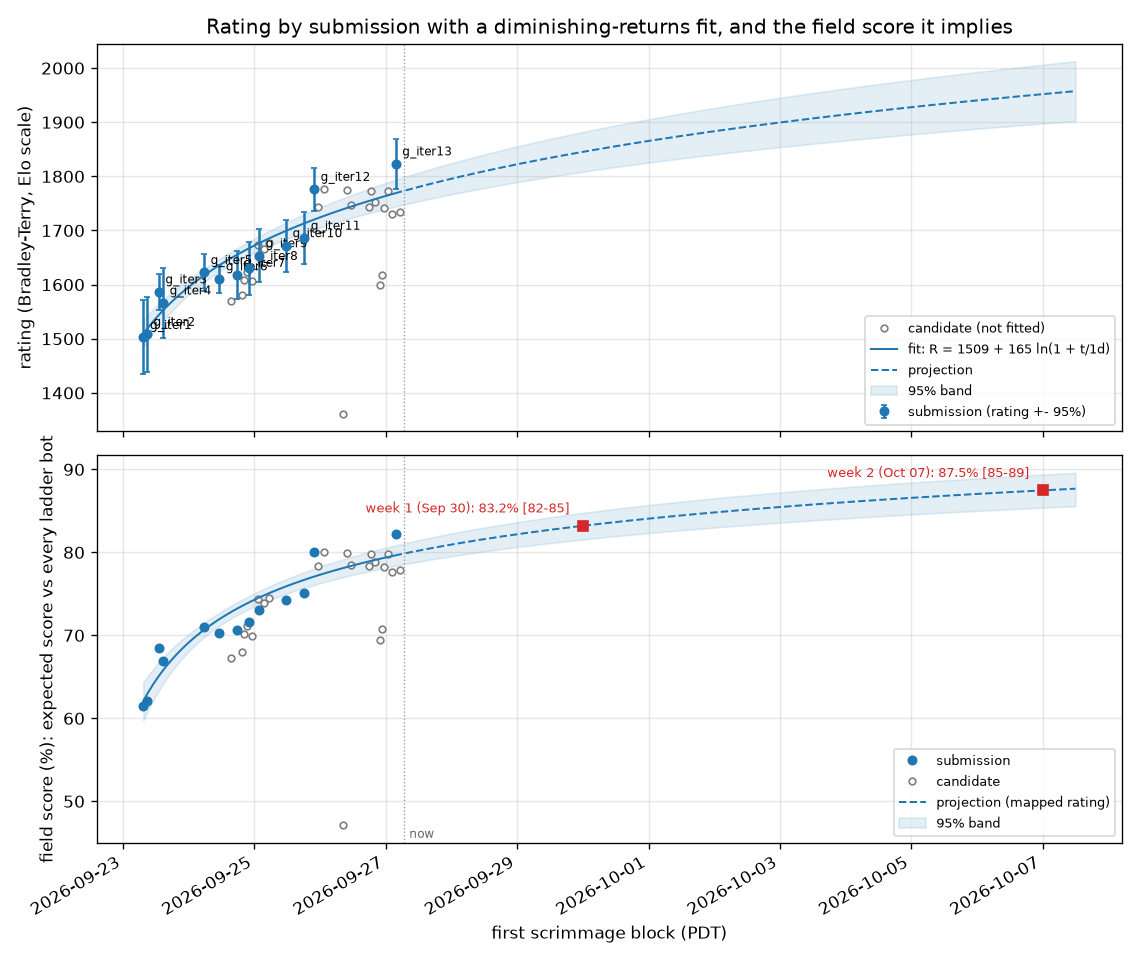
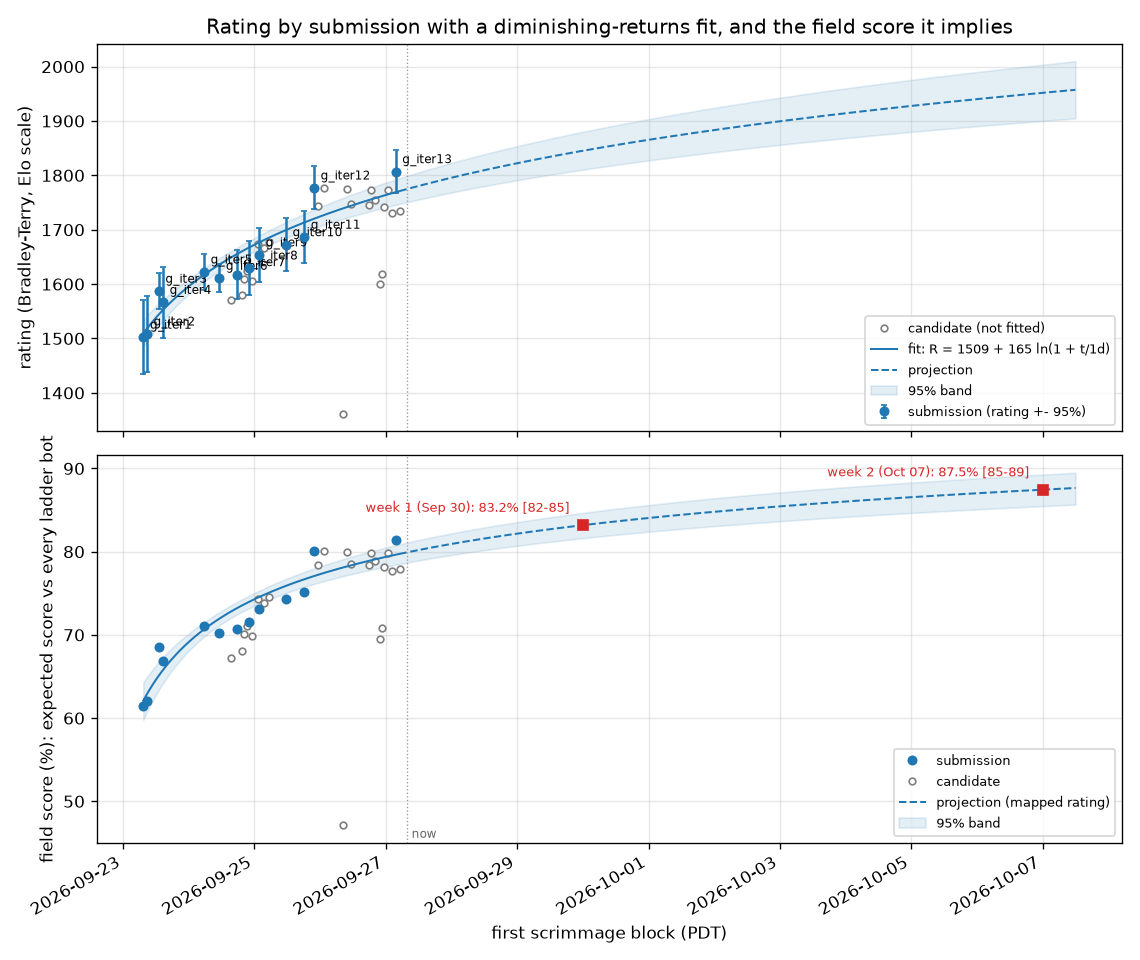
g_iter13 at 336 games: 1807 +- 39 (+30 over g_iter12); chart refreshed
Claude-Session: https://claude.ai/code/session_015tNyF5ucwWW1mudpEQTT25

diff --git a/progress/ELO.md b/progress/ELO.md
@@ -1,35 +1,35 @@
 # Ladder
 
-8440 scrimmages (ours only), 7916 distinct (a repeated pairing with the same seed replays the same game and counts once), rated by a batch Bradley-Terry fit on the Elo scale (`tools/elolib.py`); each of our builds is its own player. 65 of 65 ladder bots met.
+8536 scrimmages (ours only), 8012 distinct (a repeated pairing with the same seed replays the same game and counts once), rated by a batch Bradley-Terry fit on the Elo scale (`tools/elolib.py`); each of our builds is its own player. 65 of 65 ladder bots met.
 
 Our builds (rating +- 95%; field score = expected score against every ladder bot, one game each):
 
 | build | rating | rank | games | record | field score |
 |---|---|---|---|---|---|
-| g_iter13 | 1823 +- 46 | 12 of 101 | 240 | 134-106 | 82.2% |
-| cand69 | 1776 +- 74 | 14 of 101 | 96 | 46-50 | 80.0% |
-| g_iter12 | 1776 +- 40 | 15 of 101 | 336 | 159-177 | 80.0% |
-| cand81 | 1774 +- 91 | 16 of 101 | 95 | 67-28 | 79.9% |
-| cand86s3 | 1773 +- 46 | 17 of 101 | 240 | 118-122 | 79.8% |
-| r1s13 | 1773 +- 46 | 18 of 101 | 240 | 118-122 | 79.8% |
-| cand87 | 1753 +- 46 | 19 of 101 | 240 | 112-128 | 78.9% |
-| cand81s8 | 1747 +- 48 | 20 of 101 | 240 | 85-155 | 78.5% |
-| cand86s2 | 1744 +- 73 | 21 of 101 | 96 | 44-52 | 78.4% |
+| g_iter13 | 1807 +- 39 | 12 of 101 | 336 | 174-162 | 81.5% |
+| cand69 | 1777 +- 74 | 14 of 101 | 96 | 46-50 | 80.0% |
+| g_iter12 | 1777 +- 40 | 15 of 101 | 336 | 159-177 | 80.0% |
+| cand81 | 1775 +- 91 | 16 of 101 | 95 | 67-28 | 79.9% |
+| r1s13 | 1773 +- 46 | 17 of 101 | 240 | 118-122 | 79.8% |
+| cand86s3 | 1773 +- 46 | 18 of 101 | 240 | 118-122 | 79.8% |
+| cand87 | 1754 +- 46 | 19 of 101 | 240 | 112-128 | 78.9% |
+| cand81s8 | 1748 +- 48 | 20 of 101 | 240 | 85-155 | 78.6% |
+| cand86s2 | 1745 +- 73 | 21 of 101 | 96 | 44-52 | 78.4% |
 | cand65 | 1744 +- 74 | 22 of 101 | 96 | 42-54 | 78.4% |
 | r1s11 | 1741 +- 46 | 23 of 101 | 240 | 108-132 | 78.2% |
-| r1s16 | 1734 +- 49 | 24 of 101 | 240 | 79-161 | 77.9% |
-| r1s14 | 1731 +- 46 | 25 of 101 | 240 | 105-135 | 77.7% |
+| r1s16 | 1735 +- 49 | 24 of 101 | 240 | 79-161 | 77.9% |
+| r1s14 | 1732 +- 46 | 25 of 101 | 240 | 105-135 | 77.7% |
 | g_iter11 | 1686 +- 48 | 26 of 101 | 240 | 107-133 | 75.1% |
-| cand49b | 1677 +- 75 | 27 of 101 | 96 | 42-54 | 74.6% |
-| cand43b | 1673 +- 79 | 28 of 101 | 96 | 64-32 | 74.4% |
-| g_iter10 | 1672 +- 48 | 29 of 101 | 240 | 103-137 | 74.3% |
-| cand47d | 1665 +- 54 | 31 of 101 | 192 | 73-119 | 73.9% |
-| g_iter9 | 1653 +- 49 | 33 of 101 | 240 | 78-162 | 73.1% |
-| g_iter8 | 1630 +- 49 | 34 of 101 | 240 | 108-132 | 71.6% |
-| cand41b | 1624 +- 76 | 36 of 101 | 96 | 51-45 | 71.2% |
+| cand49b | 1677 +- 76 | 27 of 101 | 96 | 42-54 | 74.6% |
+| cand43b | 1673 +- 79 | 28 of 101 | 96 | 64-32 | 74.3% |
+| g_iter10 | 1673 +- 48 | 29 of 101 | 240 | 103-137 | 74.3% |
+| cand47d | 1666 +- 54 | 30 of 101 | 192 | 73-119 | 73.9% |
+| g_iter9 | 1654 +- 50 | 33 of 101 | 240 | 78-162 | 73.1% |
+| g_iter8 | 1630 +- 49 | 34 of 101 | 240 | 108-132 | 71.5% |
+| cand41b | 1624 +- 76 | 36 of 101 | 96 | 51-45 | 71.1% |
 | g_iter5 | 1622 +- 34 | 37 of 101 | 618 | 329-289 | 71.0% |
 | r1s8 | 1619 +- 78 | 38 of 101 | 96 | 29-67 | 70.8% |
-| g_iter7 | 1617 +- 45 | 39 of 101 | 288 | 135-153 | 70.7% |
+| g_iter7 | 1618 +- 45 | 39 of 101 | 288 | 135-153 | 70.7% |
 | g_iter6 | 1611 +- 26 | 40 of 101 | 886 | 450-436 | 70.2% |
 | cand40c | 1609 +- 77 | 41 of 101 | 96 | 57-39 | 70.1% |
 | cand42c | 1607 +- 76 | 42 of 101 | 96 | 49-47 | 69.9% |
@@ -38,52 +38,52 @@ Our builds (rating +- 95%; field score = expected score against every ladder bot
 | g_iter3 | 1587 +- 33 | 45 of 101 | 796 | 167-629 | 68.5% |
 | cand37 | 1581 +- 76 | 46 of 101 | 96 | 46-50 | 68.0% |
 | cand31 | 1570 +- 75 | 47 of 101 | 96 | 52-44 | 67.2% |
-| g_iter4 | 1566 +- 65 | 48 of 101 | 217 | 43-174 | 66.9% |
-| g_iter2 | 1508 +- 70 | 49 of 101 | 192 | 44-148 | 62.0% |
+| g_iter4 | 1567 +- 65 | 48 of 101 | 217 | 43-174 | 66.9% |
+| g_iter2 | 1509 +- 70 | 49 of 101 | 192 | 44-148 | 62.0% |
 | g_iter1 | 1503 +- 69 | 50 of 101 | 170 | 95-75 | 61.5% |
 | arch_enclosure | 1362 +- 165 | 54 of 101 | 48 | 4-44 | 47.1% |
 
 | rank | player | rating | +- 95% | games | W-L |
 |---|---|---|---|---|---|
 | 1 | awesomelemonade.citricsky | 2191 | 200 | 103 | 101-2 |
-| 2 | uvafan.v14_final_bot | 2181 | 200 | 98 | 96-2 |
+| 2 | uvafan.v14_final_bot | 2182 | 200 | 98 | 96-2 |
 | 3 | AngusRitossa.newbot | 2122 | 174 | 95 | 92-3 |
-| 4 | StoneT2000.FinalChowBotStable | 2065 | 181 | 39 | 36-3 |
+| 4 | StoneT2000.FinalChowBotStable | 2066 | 181 | 39 | 36-3 |
 | 5 | ronniesong0809.finalbota | 2007 | 98 | 127 | 114-13 |
 | 6 | battlecode20-team4.finalbota | 1999 | 63 | 286 | 254-32 |
-| 7 | IvanGeffner.finalbota | 1997 | 76 | 185 | 162-23 |
-| 8 | mvpatel2000.qual | 1907 | 33 | 619 | 473-146 |
-| 9 | winkelmantanner.tannerplayer | 1906 | 32 | 632 | 483-149 |
-| 10 | rzhan11.quals_bot | 1851 | 39 | 362 | 250-112 |
-| 11 | EmaPajic.Qualifications | 1845 | 29 | 682 | 481-201 |
-| 12 | **us:g_iter13** | 1823 | 46 | 240 | 134-106 |
-| 13 | poortho.stable_seeding_bot | 1783 | 25 | 851 | 551-300 |
-| 14 | **us:cand69** | 1776 | 74 | 96 | 46-50 |
-| 15 | **us:g_iter12** | 1776 | 40 | 336 | 159-177 |
-| 16 | **us:cand81** | 1774 | 91 | 95 | 67-28 |
-| 17 | **us:cand86s3** | 1773 | 46 | 240 | 118-122 |
-| 18 | **us:r1s13** | 1773 | 46 | 240 | 118-122 |
-| 19 | **us:cand87** | 1753 | 46 | 240 | 112-128 |
-| 20 | **us:cand81s8** | 1747 | 48 | 240 | 85-155 |
-| 21 | **us:cand86s2** | 1744 | 73 | 96 | 44-52 |
+| 7 | IvanGeffner.finalbota | 1997 | 72 | 197 | 171-26 |
+| 8 | mvpatel2000.qual | 1910 | 32 | 631 | 483-148 |
+| 9 | winkelmantanner.tannerplayer | 1910 | 32 | 644 | 494-150 |
+| 10 | rzhan11.quals_bot | 1851 | 39 | 374 | 257-117 |
+| 11 | EmaPajic.Qualifications | 1844 | 29 | 694 | 487-207 |
+| 12 | **us:g_iter13** | 1807 | 39 | 336 | 174-162 |
+| 13 | poortho.stable_seeding_bot | 1784 | 25 | 863 | 558-305 |
+| 14 | **us:cand69** | 1777 | 74 | 96 | 46-50 |
+| 15 | **us:g_iter12** | 1777 | 40 | 336 | 159-177 |
+| 16 | **us:cand81** | 1775 | 91 | 95 | 67-28 |
+| 17 | **us:r1s13** | 1773 | 46 | 240 | 118-122 |
+| 18 | **us:cand86s3** | 1773 | 46 | 240 | 118-122 |
+| 19 | **us:cand87** | 1754 | 46 | 240 | 112-128 |
+| 20 | **us:cand81s8** | 1748 | 48 | 240 | 85-155 |
+| 21 | **us:cand86s2** | 1745 | 73 | 96 | 44-52 |
 | 22 | **us:cand65** | 1744 | 74 | 96 | 42-54 |
 | 23 | **us:r1s11** | 1741 | 46 | 240 | 108-132 |
-| 24 | **us:r1s16** | 1734 | 49 | 240 | 79-161 |
-| 25 | **us:r1s14** | 1731 | 46 | 240 | 105-135 |
+| 24 | **us:r1s16** | 1735 | 49 | 240 | 79-161 |
+| 25 | **us:r1s14** | 1732 | 46 | 240 | 105-135 |
 | 26 | **us:g_iter11** | 1686 | 48 | 240 | 107-133 |
-| 27 | **us:cand49b** | 1677 | 75 | 96 | 42-54 |
+| 27 | **us:cand49b** | 1677 | 76 | 96 | 42-54 |
 | 28 | **us:cand43b** | 1673 | 79 | 96 | 64-32 |
-| 29 | **us:g_iter10** | 1672 | 48 | 240 | 103-137 |
-| 30 | cormackikkert.whyPermutator | 1666 | 24 | 841 | 415-426 |
-| 31 | **us:cand47d** | 1665 | 54 | 192 | 73-119 |
-| 32 | laurenschneider.pdx_team_one | 1658 | 24 | 818 | 398-420 |
-| 33 | **us:g_iter9** | 1653 | 49 | 240 | 78-162 |
+| 29 | **us:g_iter10** | 1673 | 48 | 240 | 103-137 |
+| 30 | **us:cand47d** | 1666 | 54 | 192 | 73-119 |
+| 31 | cormackikkert.whyPermutator | 1664 | 24 | 853 | 417-436 |
+| 32 | laurenschneider.pdx_team_one | 1658 | 24 | 830 | 402-428 |
+| 33 | **us:g_iter9** | 1654 | 50 | 240 | 78-162 |
 | 34 | **us:g_iter8** | 1630 | 49 | 240 | 108-132 |
 | 35 | benzyx.seeding | 1625 | 25 | 814 | 360-454 |
 | 36 | **us:cand41b** | 1624 | 76 | 96 | 51-45 |
 | 37 | **us:g_iter5** | 1622 | 34 | 618 | 329-289 |
 | 38 | **us:r1s8** | 1619 | 78 | 96 | 29-67 |
-| 39 | **us:g_iter7** | 1617 | 45 | 288 | 135-153 |
+| 39 | **us:g_iter7** | 1618 | 45 | 288 | 135-153 |
 | 40 | **us:g_iter6** | 1611 | 26 | 886 | 450-436 |
 | 41 | **us:cand40c** | 1609 | 77 | 96 | 57-39 |
 | 42 | **us:cand42c** | 1607 | 76 | 96 | 49-47 |
@@ -92,8 +92,8 @@ Our builds (rating +- 95%; field score = expected score against every ladder bot
 | 45 | **us:g_iter3** | 1587 | 33 | 796 | 167-629 |
 | 46 | **us:cand37** | 1581 | 76 | 96 | 46-50 |
 | 47 | **us:cand31** | 1570 | 75 | 96 | 52-44 |
-| 48 | **us:g_iter4** | 1566 | 65 | 217 | 43-174 |
-| 49 | **us:g_iter2** | 1508 | 70 | 192 | 44-148 |
+| 48 | **us:g_iter4** | 1567 | 65 | 217 | 43-174 |
+| 49 | **us:g_iter2** | 1509 | 70 | 192 | 44-148 |
 | 50 | **us:g_iter1** | 1503 | 69 | 170 | 95-75 |
 | 51 | wpine215.stardustv2 | 1439 | 36 | 461 | 122-339 |
 | 52 | mhahn2003.nonrush | 1393 | 51 | 256 | 57-199 |

diff --git a/BENCHMARK.md b/BENCHMARK.md
@@ -80,7 +80,7 @@ build with at least 200 recorded games: a candidate's short ladder arm never re-
 | `IvanGeffner.dronecrunchplus` | IvanGeffner_battlecode2020 (bc7dbca) | - | - | untested |  |
 | `IvanGeffner.ecoplayer` | IvanGeffner_battlecode2020 (bc7dbca) | - | - | untested |  |
 | `IvanGeffner.ecoplus` | IvanGeffner_battlecode2020 (bc7dbca) | - | - | untested |  |
-| `IvanGeffner.finalbota` | IvanGeffner_battlecode2020 (bc7dbca) | 10 | 30 | locked | 0 8 12 18 0 0 17 42 0 0 11 10 |
+| `IvanGeffner.finalbota` | IvanGeffner_battlecode2020 (bc7dbca) | 10 | 30 | locked | 0 8 12 18 0 0 17 42 0 0 11 25 10 |
 | `IvanGeffner.finalbotb` | IvanGeffner_battlecode2020 (bc7dbca) | - | - | untested |  |
 | `IvanGeffner.finalbotc` | IvanGeffner_battlecode2020 (bc7dbca) | - | - | untested |  |
 | `IvanGeffner.landscaperop` | IvanGeffner_battlecode2020 (bc7dbca) | - | - | untested |  |
@@ -175,7 +175,7 @@ build with at least 200 recorded games: a candidate's short ladder arm never re-
 | `benzyx.tortuga` | benzyx_bc20-waterloo (05df2e7) | - | - | untested |  |
 | `charboltron.master_player` | charboltron_pdx_battlecode_2020_team_11 (f78f1e3) | - | - | untested |  |
 | `charboltron.team11newbot` | charboltron_pdx_battlecode_2020_team_11 (f78f1e3) | 100 | 2 | peer(>90 once) | 100 100 |
-| `cormackikkert.whyPermutator` | cormackikkert_battlecode2020 (4d230c4) | 67 | 30 | peer | 25 17 38 40 25 42 45 25 28 25 42 33 47 58 42 50 38 75 60 50 71 67 75 17 83 75 50 67 60 50 42 57 80 47 70 67 |
+| `cormackikkert.whyPermutator` | cormackikkert_battlecode2020 (4d230c4) | 67 | 30 | peer | 25 17 38 40 25 42 45 25 28 25 42 33 47 58 42 50 38 75 60 50 71 67 75 17 83 75 50 67 60 50 42 57 80 47 74 67 |
 | `cormackikkert.whyPermutatorOld` | cormackikkert_battlecode2020 (4d230c4) | - | - | untested |  |
 | `cosimogonnelli.Team3player` | cosimogonnelli_CS454-554-SE (d7dc657) | 100 | 2 | peer(>90 once) | 80 100 |
 | `cs454-w20-team3.oldbot` | cs454-w20-team3_team3-bot (502c334) | - | - | untested |  |
@@ -203,7 +203,7 @@ build with at least 200 recorded games: a candidate's short ladder arm never re-
 | `kylittle.deliriumv1` | kylittle_DeliriumBattlecode (17a94dd) | - | - | untested |  |
 | `kylittle.qualsbot` | kylittle_DeliriumBattlecode (17a94dd) | - | - | untested |  |
 | `kylittle.qualsbot2` | kylittle_DeliriumBattlecode (17a94dd) | 100 | 2 | peer(>90 once) | 100 100 |
-| `laurenschneider.pdx_team_one` | laurenschneider_battlecode20-PDXTeamOne (2965376) | 70 | 30 | peer | 0 50 39 14 0 47 38 0 50 50 50 42 47 42 50 47 50 42 50 47 79 50 67 17 83 92 75 70 63 67 25 70 73 67 70 |
+| `laurenschneider.pdx_team_one` | laurenschneider_battlecode20-PDXTeamOne (2965376) | 69 | 42 | peer | 0 50 39 14 0 47 38 0 50 50 50 42 47 42 50 47 50 42 50 47 79 50 67 17 83 92 75 70 63 67 25 70 73 67 69 |
 | `lfchain.bigBudsBot` | lfchain_Battlecode2020 (b026153) | 100 | 2 | peer(>90 once) | 100 100 |
 | `lfchain.fBot` | lfchain_Battlecode2020 (b026153) | - | - | untested |  |
 | `lfchain.jBot` | lfchain_Battlecode2020 (b026153) | - | - | untested |  |
@@ -246,7 +246,7 @@ build with at least 200 recorded games: a candidate's short ladder arm never re-
 | `mvpatel2000.oldhades` | mvpatel2000_Battlecode2020 (554943e) | - | - | untested |  |
 | `mvpatel2000.poseidon` | mvpatel2000_Battlecode2020 (554943e) | - | - | untested |  |
 | `mvpatel2000.quail` | mvpatel2000_Battlecode2020 (554943e) | - | - | untested |  |
-| `mvpatel2000.qual` | mvpatel2000_Battlecode2020 (554943e) | 20 | 30 | target | 0 8 24 13 67 12 0 12 20 46 8 23 30 26 42 33 0 17 23 17 33 27 17 17 23 37 17 33 20 |
+| `mvpatel2000.qual` | mvpatel2000_Battlecode2020 (554943e) | 20 | 30 | target | 0 8 24 13 67 12 0 12 20 46 8 23 30 26 42 33 0 17 23 17 33 27 17 17 23 37 17 29 20 |
 | `mvpatel2000.qualAttacc` | mvpatel2000_Battlecode2020 (554943e) | - | - | untested |  |
 | `mvpatel2000.qualNoAtacc` | mvpatel2000_Battlecode2020 (554943e) | - | - | untested |  |
 | `mvpatel2000.seeding` | mvpatel2000_Battlecode2020 (554943e) | - | - | untested |  |
@@ -280,7 +280,7 @@ build with at least 200 recorded games: a candidate's short ladder arm never re-
 | `poortho.rush` | poortho_battlecode-2020 (ebbd61e) | - | - | untested |  |
 | `poortho.rush_bot` | poortho_battlecode-2020 (ebbd61e) | - | - | untested |  |
 | `poortho.stable_miner1` | poortho_battlecode-2020 (ebbd61e) | - | - | untested |  |
-| `poortho.stable_seeding_bot` | poortho_battlecode-2020 (ebbd61e) | 47 | 30 | target | 0 17 27 31 0 30 31 50 39 33 25 33 33 17 42 37 33 17 27 30 31 58 25 0 33 43 58 43 43 17 25 43 47 53 50 47 |
+| `poortho.stable_seeding_bot` | poortho_battlecode-2020 (ebbd61e) | 47 | 30 | target | 0 17 27 31 0 30 31 50 39 33 25 33 33 17 42 37 33 17 27 30 31 58 25 0 33 43 58 43 43 17 25 43 47 53 48 47 |
 | `ps789.dennisTestPlayer` | ps789_AZBattlecode (f1d54ab) | - | - | untested |  |
 | `ps789.phillipTestPlayer` | ps789_AZBattlecode (f1d54ab) | - | - | untested |  |
 | `ronniesong0809.finalbota` | ronniesong0809_battlecode20-RADS (1cee065) | 7 | 30 | locked | 0 18 15 7 0 0 7 |
@@ -293,7 +293,7 @@ build with at least 200 recorded games: a candidate's short ladder arm never re-
 | `rzhan11.kryptonite` | rzhan11_Battlecode2020 (3cc4b50) | - | - | untested |  |
 | `rzhan11.landscaper_rush_bot` | rzhan11_Battlecode2020 (3cc4b50) | - | - | untested |  |
 | `rzhan11.orig_rush_bot` | rzhan11_Battlecode2020 (3cc4b50) | - | - | untested |  |
-| `rzhan11.quals_bot` | rzhan11_Battlecode2020 (3cc4b50) | 43 | 30 | target | 0 17 6 12 0 11 43 25 40 43 0 25 33 37 37 47 43 |
+| `rzhan11.quals_bot` | rzhan11_Battlecode2020 (3cc4b50) | 43 | 30 | target | 0 17 6 12 0 11 43 25 40 43 0 25 33 37 37 45 43 |
 | `rzhan11.rush_bot` | rzhan11_Battlecode2020 (3cc4b50) | - | - | untested |  |
 | `rzhan11.seeding` | rzhan11_Battlecode2020 (3cc4b50) | - | - | untested |  |
 | `rzhan11.sprint` | rzhan11_Battlecode2020 (3cc4b50) | - | - | untested |  |
@@ -326,7 +326,7 @@ build with at least 200 recorded games: a candidate's short ladder arm never re-
 | `willBoyd8.droideka` | willBoyd8_BattleDroid (4b1d4ad) | - | - | untested |  |
 | `willBoyd8.empire` | willBoyd8_BattleDroid (4b1d4ad) | - | - | untested |  |
 | `willBoyd8.mouse` | willBoyd8_BattleDroid (4b1d4ad) | - | - | untested |  |
-| `winkelmantanner.tannerplayer` | winkelmantanner_battlecode2020_the-levee-builders (7f49f11) | 33 | 30 | target | 0 25 15 23 0 36 12 8 23 17 25 17 27 33 8 50 0 17 23 33 27 20 17 17 17 37 23 47 33 |
+| `winkelmantanner.tannerplayer` | winkelmantanner_battlecode2020_the-levee-builders (7f49f11) | 33 | 30 | target | 0 25 15 23 0 36 12 8 23 17 25 17 27 33 8 50 0 17 23 33 27 20 17 17 17 37 23 36 33 |
 | `wpine215.stardustv1` | wpine215_battlecode (d570d57) | - | - | untested |  |
 | `wpine215.stardustv2` | wpine215_battlecode (d570d57) | 90 | 30 | peer | 0 30 50 65 100 70 77 58 78 83 67 75 87 100 83 67 100 73 90 |
 | `yaonam.Robot_1` | yaonam_battlecode2020 (bb363f5) | 83 | 12 | peer | 62 100 83 100 |

diff --git a/HANDOFF.md b/HANDOFF.md
@@ -14,7 +14,7 @@ run on UTC; run ids (`YYYYmmdd-HHMMSS`) are UTC machine stamps; dates written in
 - **Iteration 81 (the drone shield, `src/cand81s8`) is CLOSED, not kept:** gate81 3-9 in 320 pairs (inconclusive);
   ladder 1783 +- 48 on 240 band games against g_iter12's 1814 +- 39; the shield was absent in 14 of 15 raid-window
   losses (no center or drone: the surplus arrives after the miners are gone). Ledger entry has the re-open condition.
-- **INCUMBENT: `src/g_iter13` = R1 stage 15 (r1s15), 1829 +- 46 on 240 band games, rank 12 of 100 (g_iter12 1780 +- 40).**
+- **INCUMBENT: `src/g_iter13` = R1 stage 15 (r1s15), 1807 +- 39 on 336 band games, rank 12 of 101 (g_iter12 1777 +- 40).**
   Accepted on the ladder (the §8b registration, PROMPTS 48-49); the mirror, where it wins 8 of 20 against g_iter12, is not
   its judge. `src/bot` = g_iter13. R1 stages and method: TRAINING_LOG from "R1 stage 1"; judge R1 stages at 240 band games
   (96-game arms read +20 and fell back three times). Next for R1: mvpatel2000 (33%) and rzhan11 (47%), the late race.

diff --git a/TRAINING_LOG.md b/TRAINING_LOG.md
@@ -4144,3 +4144,7 @@ r1500-2500); in 25 of the 65 our ring still led at r2000. The late race is bodie
 around the wall. In our 64 late wins the opponent fields 9-12. A design workflow (three replay investigators, three
 designers, two adversarial judges) is tracing where ours die and how theirs stand. Meanwhile `subg13`: two more blocks
 as g_iter13 (PROMPTS 26: a submission plays to ~+-40).
+
+**subg13 (two more blocks as g_iter13): 40-56; g_iter13 now 1807 +- 39 on 336 band games (174-162), rank 12 of 101;
+g_iter12 1777 +- 40.** The lead is +30 at the submission standard (+-40). Field score 79.9% now; 83.2% projected for
+Sep 30, 87.5% for Oct 7.
